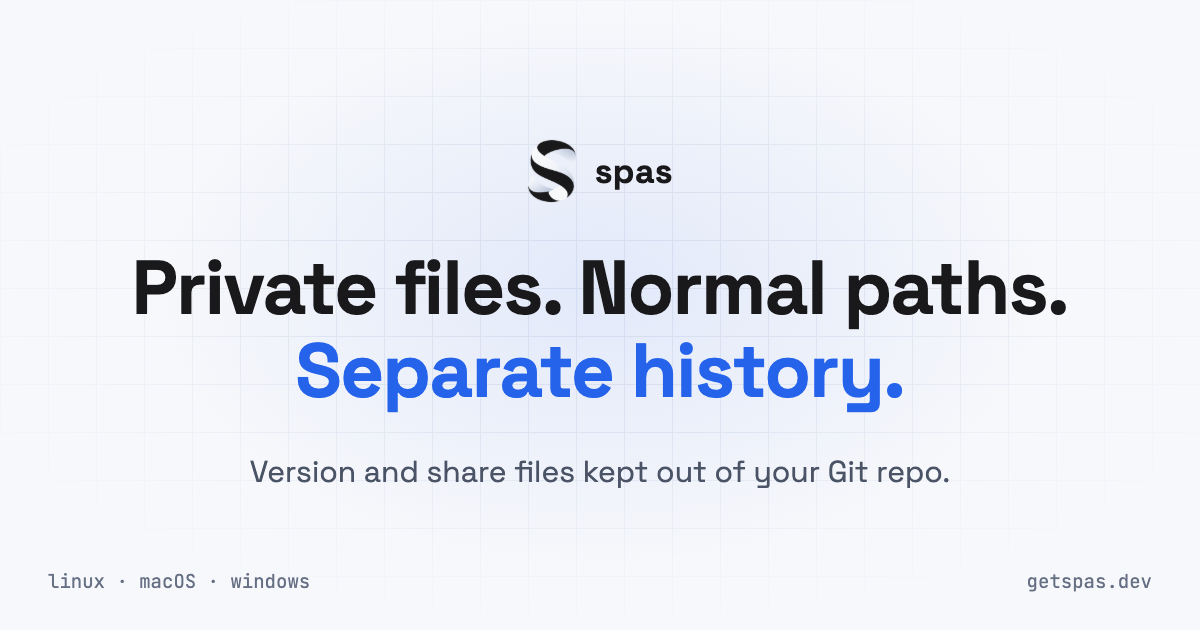
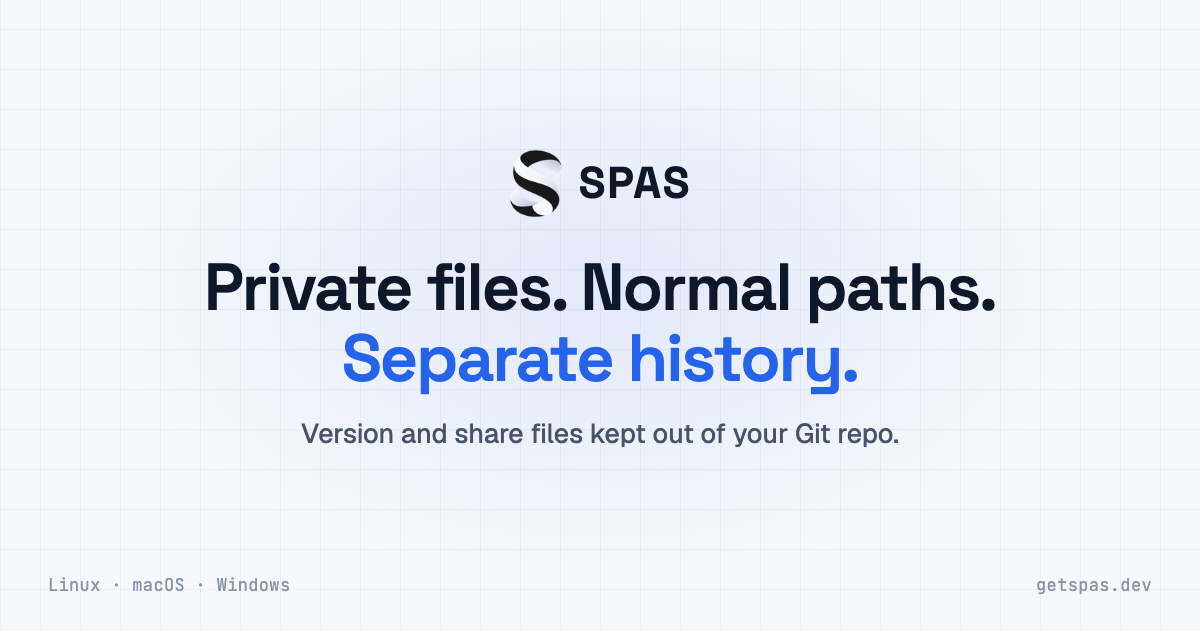
fix(copy): use the SPAS name and consistent capitalization

diff --git a/src/lib/install.ts b/src/lib/install.ts
@@ -33,7 +33,7 @@ export const installChannels: InstallChannel[] = [
 		label: 'scoop',
 		name: 'Scoop',
 		lines: ['scoop bucket add getspas https://github.com/getspas/scoop-bucket', 'scoop install getspas/spas'],
-		note: ['Windows x64 and ARM64. Adds the getspas bucket, then installs.'],
+		note: ['Windows x64 and ARM64. Adds the SPAS bucket, then installs.'],
 	},
 	{
 		id: 'deb-rpm',
